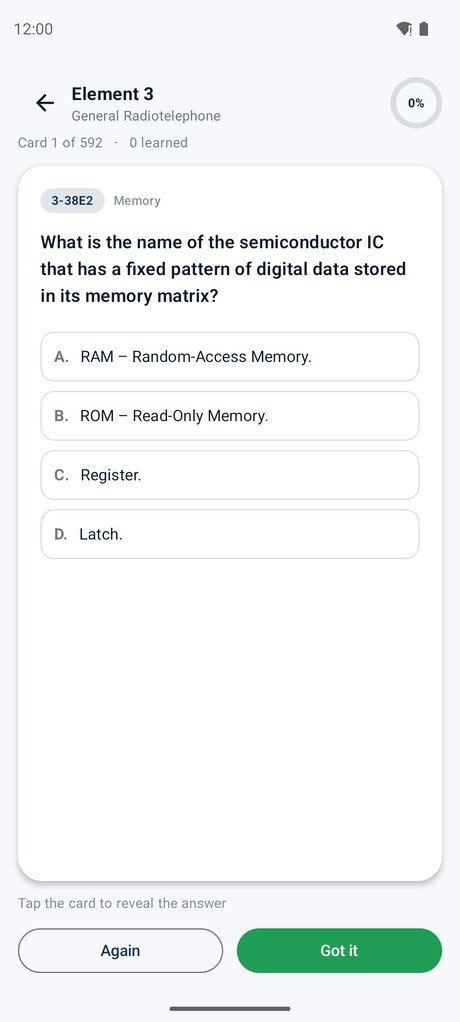
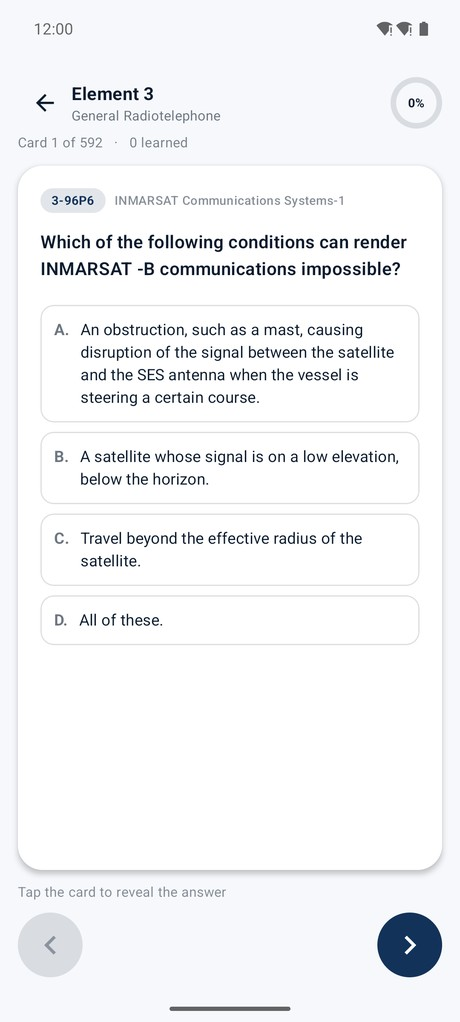
Version 8

diff --git a/hamradio.html b/hamradio.html
@@ -1,0 +1,146 @@
+<!doctype html>
+<html lang="en">
+<head>
+<meta charset="utf-8">
+<meta name="viewport" content="width=device-width, initial-scale=1">
+<title>Ham Radio License Prep — KyBamboo</title>
+<meta name="description" content="Free, offline Android study app for all three US amateur radio license exams — Technician, General & Amateur Extra. 1,438 real NCVEC questions, flashcards, and practice tests. No ads, no tracking.">
+<style>
+  :root{
+    --bg:#08202a; --bg2:#0b2a33; --surface:#0f2e37; --line:#1c4650;
+    --text:#e6f2f4; --muted:#9fbdc4; --teal:#37c6d4; --teal-ink:#052226; --radius:16px; --maxw:1000px;
+  }
+  @media (prefers-color-scheme: light){
+    :root{ --bg:#f2f7f8; --bg2:#e9f1f2; --surface:#ffffff; --line:#d8e6e8;
+           --text:#06232a; --muted:#4a6b72; --teal:#0c6e78; --teal-ink:#ffffff; }
+  }
+  *{box-sizing:border-box}
+  html{scroll-behavior:smooth}
+  body{margin:0; background:linear-gradient(180deg,var(--bg),var(--bg2) 55%,var(--bg));
+       color:var(--text); font:16px/1.6 system-ui,-apple-system,"Segoe UI",Roboto,Helvetica,Arial,sans-serif;
+       -webkit-font-smoothing:antialiased}
+  .wrap{max-width:var(--maxw); margin:0 auto; padding:0 22px}
+  a{color:var(--teal)}
+  .back{display:inline-block; margin:26px 0 6px; color:var(--teal); text-decoration:none; font-weight:600}
+
+  /* hero */
+  .hero{display:flex; gap:22px; align-items:center; flex-wrap:wrap; padding:14px 0 8px}
+  .icon{width:96px; height:96px; border-radius:22px; flex:0 0 auto; box-shadow:0 8px 24px rgba(0,0,0,.25)}
+  .hero h1{font-size:clamp(26px,4.5vw,40px); line-height:1.1; margin:0 0 6px; letter-spacing:-.02em}
+  .tagline{color:var(--muted); font-size:clamp(15px,2.2vw,18px); margin:0 0 12px; max-width:52ch}
+  .badges{display:flex; flex-wrap:wrap; gap:8px; margin-bottom:16px}
+  .badges span{font-size:12px; font-weight:700; letter-spacing:.02em; color:var(--teal);
+       background:color-mix(in srgb, var(--teal) 15%, transparent); padding:5px 11px; border-radius:999px}
+  .cta{display:flex; gap:12px; align-items:center; flex-wrap:wrap}
+  .btn{display:inline-block; text-decoration:none; font-weight:700; border-radius:12px; padding:12px 20px}
+  .btn.primary{background:var(--teal); color:var(--teal-ink)}
+  .btn.ghost{border:1px solid var(--line); color:var(--text)}
+  .sub{color:var(--muted); font-size:13px; margin-top:8px}
+
+  /* screenshots */
+  .shots{display:flex; gap:16px; overflow-x:auto; padding:26px 2px 12px; scroll-snap-type:x mandatory}
+  .shots img{width:230px; height:auto; border-radius:18px; border:1px solid var(--line);
+       box-shadow:0 10px 30px rgba(0,0,0,.22); scroll-snap-align:center; flex:0 0 auto}
+  .shots::-webkit-scrollbar{height:8px}
+  .shots::-webkit-scrollbar-thumb{background:var(--line); border-radius:8px}
+
+  section{padding:26px 0}
+  h2{font-size:13px; letter-spacing:.16em; text-transform:uppercase; color:var(--muted); font-weight:700; margin:0 0 16px}
+  .feat{display:grid; grid-template-columns:repeat(auto-fill,minmax(260px,1fr)); gap:14px}
+  .feat .item{background:var(--surface); border:1px solid var(--line); border-radius:14px; padding:16px 18px}
+  .feat .item b{display:block; margin-bottom:3px}
+  .feat .item p{margin:0; color:var(--muted); font-size:14px}
+  .box{background:var(--surface); border:1px solid var(--line); border-left:4px solid var(--teal);
+       border-radius:12px; padding:18px 20px; margin:8px 0}
+
+  /* classes table */
+  .classes{display:grid; grid-template-columns:repeat(auto-fit,minmax(240px,1fr)); gap:14px}
+  .cls{background:var(--surface); border:1px solid var(--line); border-radius:14px; padding:16px 18px}
+  .cls .pill{display:inline-block; font-size:11px; font-weight:700; letter-spacing:.04em; color:var(--teal);
+       background:color-mix(in srgb, var(--teal) 15%, transparent); padding:3px 9px; border-radius:999px; margin-bottom:8px}
+  .cls b{font-size:17px}
+  .cls .meta{color:var(--muted); font-size:13.5px; margin:4px 0 0}
+  footer{border-top:1px solid var(--line); margin-top:28px; padding:24px 0 60px; color:var(--muted); font-size:14px}
+  footer a{color:var(--teal); text-decoration:none}
+</style>
+</head>
+<body>
+<div class="wrap">
+  <a class="back" href="./index.html">← KyBamboo</a>
+
+  <div class="hero">
+    <img class="icon" src="./img/ham-icon.png" alt="Ham Radio License Prep icon">
+    <div>
+      <h1>Ham Radio License Prep</h1>
+      <p class="tagline">Free, offline flashcards &amp; practice tests for <em>all three</em> US amateur
+         radio license exams — built on the real, public-domain NCVEC question pools.</p>
+      <div class="badges"><span>Free</span><span>100% offline</span><span>No ads</span><span>No tracking</span><span>1,438 questions</span></div>
+      <div class="cta">
+        <!-- Once the app is in Google Play testing, swap this for:
+             <a class="btn primary" href="https://play.google.com/apps/testing/com.kybamboo.hamradio">Join the beta test →</a> -->
+        <span class="btn primary" style="cursor:default">Coming to Google Play</span>
+        <a class="btn ghost" href="./privacy.html">Privacy</a>
+      </div>
+      <p class="sub">Android · Technician, General &amp; Amateur Extra · preparing for Google Play launch.</p>
+    </div>
+  </div>
+
+  <div class="shots">
+    <img src="./img/ham-screen-1-home.jpg" alt="Home — choose your license class" loading="lazy">
+    <img src="./img/ham-screen-2-chooser.jpg" alt="Help me choose the right class" loading="lazy">
+    <img src="./img/ham-screen-3-detail.jpg" alt="License class detail and upgrade path" loading="lazy">
+    <img src="./img/ham-screen-4-flashcard.jpg" alt="Flashcard question" loading="lazy">
+    <img src="./img/ham-screen-5-answer.jpg" alt="Flashcard answer revealed" loading="lazy">
+    <img src="./img/ham-screen-6-diagram.jpg" alt="Question with a bundled schematic figure" loading="lazy">
+    <img src="./img/ham-screen-7-test.jpg" alt="Practice test with instant feedback" loading="lazy">
+  </div>
+
+  <section>
+    <h2>What's inside</h2>
+    <div class="feat">
+      <div class="item"><b>1,438 real questions</b><p>The complete, current NCVEC question pools for all three license classes — nothing paraphrased or trimmed.</p></div>
+      <div class="item"><b>Flashcards</b><p>Tap-to-flip reveal with animated progress rings so you can see what you've learned.</p></div>
+      <div class="item"><b>Practice tests</b><p>Same question count and passing mark as the real exam, scored with instant right/wrong feedback.</p></div>
+      <div class="item"><b>Fully resumable</b><p>Leave a test and pick up exactly where you left off — nothing lost.</p></div>
+      <div class="item"><b>Every diagram included</b><p>Antenna patterns, circuit diagrams, a Smith chart and component symbols sit right on the question that needs them.</p></div>
+      <div class="item"><b>Help me choose</b><p>A built-in guide maps your goal to a license class — and clears up myths like the retired Morse code requirement.</p></div>
+      <div class="item"><b>Upgrade path</b><p>See what each class unlocks and how you climb: Technician → General → Amateur Extra.</p></div>
+      <div class="item"><b>Private by design</b><p>No internet permission at all. No ads, no accounts, no tracking, nothing collected.</p></div>
+    </div>
+  </section>
+
+  <section>
+    <h2>License classes covered</h2>
+    <div class="classes">
+      <div class="cls">
+        <span class="pill">TECH</span>
+        <b>Technician</b>
+        <p class="meta">409-question pool · exam 35 Q, pass 26 · entry-level VHF/UHF · pool 2026–2030</p>
+      </div>
+      <div class="cls">
+        <span class="pill">GEN</span>
+        <b>General</b>
+        <p class="meta">426-question pool · exam 35 Q, pass 26 · most HF worldwide · pool 2023–2027</p>
+      </div>
+      <div class="cls">
+        <span class="pill">EXTRA</span>
+        <b>Amateur Extra</b>
+        <p class="meta">603-question pool · exam 50 Q, pass 37 · every privilege · pool 2024–2028</p>
+      </div>
+    </div>
+  </section>
+
+  <div class="box">
+    <strong>Coming soon.</strong> Ham Radio License Prep is getting ready for Google Play. Check
+    back here for a testing link, or see the <a href="./privacy.html">privacy policy</a> in the
+    meantime.
+  </div>
+
+  <footer>
+    <a href="./index.html">← KyBamboo</a> &nbsp;·&nbsp; <a href="./privacy.html">Privacy policy</a>
+    &nbsp;·&nbsp; Question pools authored by the NCVEC QPC and released to the public domain.
+    Not affiliated with or endorsed by the NCVEC, ARRL, or FCC.
+  </footer>
+</div>
+</body>
+</html>

diff --git a/privacy.html b/privacy.html
@@ -39,6 +39,7 @@
 
   <h2>Apps this policy covers</h2>
   <ul>
+    <li><strong>Ham Radio License Prep</strong> — US amateur (ham) radio license study app</li>
     <li><strong>GROL &amp; Commercial Radio Prep</strong> — FCC commercial radio license study app</li>
     <li><strong>CallDrop</strong> — screens calls from numbers that aren't in your contacts</li>
   </ul>
@@ -51,8 +52,9 @@
 
   <h2>What stays on your device</h2>
   <p>Anything an app needs to remember is saved only in that app's private storage on your own
-     device — for example, your study progress in GROL &amp; Commercial Radio Prep. It never
-     leaves the device and is removed if you uninstall the app or clear its data.</p>
+     device — for example, your study progress in Ham Radio License Prep or GROL &amp; Commercial
+     Radio Prep. It never leaves the device and is removed if you uninstall the app or clear its
+     data.</p>
 
   <h2>On-device information some apps use</h2>
   <p>A few features need to read certain information on your device purely in order to work. This
@@ -61,9 +63,9 @@
     <li><strong>CallDrop</strong> reads your contacts and the phone number of an incoming call to
         decide whether to let it ring through or screen it. It does not save, log, or transmit
         your contacts or call information.</li>
-    <li><strong>GROL &amp; Commercial Radio Prep</strong> uses notifications only for an optional
-        daily reminder to finish a practice test, and declares <strong>no internet access</strong>
-        at all.</li>
+    <li><strong>Ham Radio License Prep</strong> and <strong>GROL &amp; Commercial Radio Prep</strong>
+        use notifications only for an optional daily reminder to finish a practice test, and
+        declare <strong>no internet access</strong> at all.</li>
   </ul>
 
   <h2>Permissions</h2>
@@ -74,9 +76,11 @@
   <p>Our apps are suitable for all ages and collect no data from anyone, including children.</p>
 
   <h2>Third parties</h2>
-  <p>There are no third-party SDKs, ad networks, or trackers in any of our apps. (GROL &amp;
-     Commercial Radio Prep uses the public-domain FCC Commercial Operator License question pools
-     and is not affiliated with or endorsed by the FCC.)</p>
+  <p>There are no third-party SDKs, ad networks, or trackers in any of our apps. (Ham Radio License
+     Prep uses the public-domain NCVEC amateur radio question pools and is not affiliated with or
+     endorsed by the NCVEC, ARRL, or FCC. GROL &amp; Commercial Radio Prep uses the public-domain
+     FCC Commercial Operator License question pools and is not affiliated with or endorsed by the
+     FCC.)</p>
 
   <h2>Changes</h2>
   <p>If this policy changes, the updated version will be posted on this page with a new date.</p>

diff --git a/index.html b/index.html
@@ -93,6 +93,15 @@
     <div class="grid">
 
       <article class="card">
+        <h3>Ham Radio License Prep <span class="badge">Play soon</span></h3>
+        <p>A free, fully-offline Android study app for the US amateur radio exams — Technician,
+           General &amp; Amateur Extra. 1,438 real, public-domain NCVEC questions with flashcards,
+           bundled diagrams, and scored practice tests.</p>
+        <div class="chips"><span class="chip">Android</span><span class="chip">Kotlin</span><span class="chip">Compose</span><span class="chip">Education</span></div>
+        <div class="links"><a href="./hamradio.html">Screenshots &amp; details →</a><a href="./privacy.html">Privacy</a></div>
+      </article>
+
+      <article class="card">
         <h3>GROL &amp; Commercial Radio Prep <span class="badge">Play soon</span></h3>
         <p>A free, fully-offline Android study app for every FCC commercial radio license —
            2,800+ real, public-domain questions with flashcards and scored practice tests.</p>
